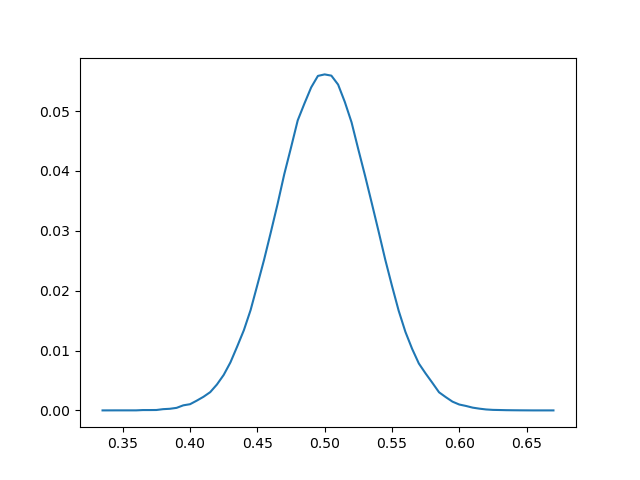
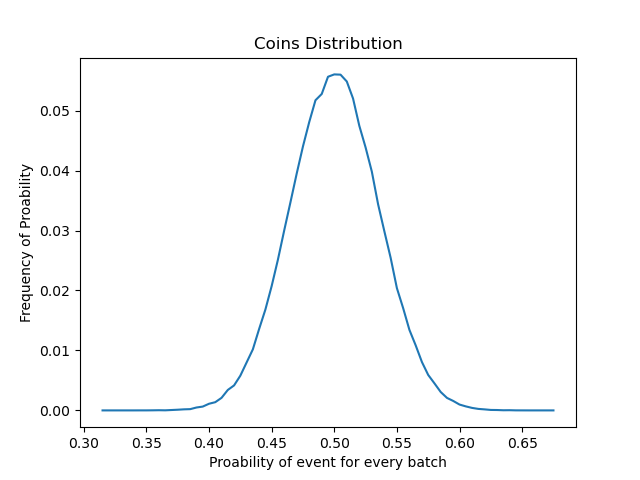
new

diff --git a/coinDistrbution.py b/coinDistrbution.py
@@ -4,19 +4,19 @@
 import numpy as np 
 import matplotlib.pyplot as plt
 
-def randomSeries(N):
-    """generate series number between 0~1"""
+def randomSeries(N): #generate series number between 0~1
     return np.random.rand(N)
 
 def plotNormalDistribution():
-    plt.figure(num='Normal Distribution')
     x = np.linspace(-1,1,50)
     y = 1/np.sqrt(2*np.pi) * np.exp(-0.5*x**2)
-    plt.plot(x,y)
+    plotDistribution(x,y,'Normal Distribution')
     
 def plotDistribution(x,y,name):
-    plt.figure(num=name)
+    plt.title(name)
     plt.plot(x,y)
+    plt.xlabel('Proability of event for every batch')
+    plt.ylabel('Frequency of Proability')
     plt.show()
 
 def calculateDistribution(distributions,name):
@@ -30,7 +30,7 @@ def calculateDistribution(distributions,name):
         distributions_setCount.append(distributions.count(i))
     #print(distributions_setCount)
 
-    distributions_setProb = []  #calculate prob frequency
+    distributions_setProb = []  #calculate frequency prob
     sum = np.sum(distributions_setCount)
     for i in distributions_setCount:
         distributions_setProb.append(i/sum)
@@ -38,17 +38,16 @@ def calculateDistribution(distributions,name):
 
     maxFrequency = np.max(distributions_setProb)
     index = distributions_setProb.index(maxFrequency)
-    print('index=',index,'prob=',distributions_set[index],'max frequency:',maxFrequency)
+    print('index=',index,'prob=',distributions_set[index].round(4),'max frequency:',maxFrequency.round(4))
 
     plotDistribution(distributions_set,distributions_setProb,name)
 
 
 def main():
     #plotNormalDistribution()
-
     #experment start
     T = 300000  #times of batch
-    N = 200    #coin test times erery batch
+    N = 200     #coin test times every batch
     
     distributions = []
     for _ in range(T):

diff --git a/diceDistrbution.py b/diceDistrbution.py
@@ -3,23 +3,13 @@
 import numpy as np 
 from coinDistrbution import calculateDistribution
 
-def randomSeriesInt(N):
-    """generate series dice number """
+def randomSeriesInt(N): #generate N times dice number 1~6
     return np.random.randint(1,7,N)
 
 def main():
     #experment start
-
-    #test 1
-    """
-    N = 20000   #coin test times erery batch
-    distributions = list(randomSeriesInt(N))
-    return calculateDistribution(distributions)
-    """
-
-    #test2
     T = 50000  #times of batch
-    N = 100    #coin test times erery batch
+    N = 100    #dice test times every batch
     
     distributions = []
     for _ in range(T):
@@ -27,7 +17,6 @@ def main():
         res = np.where(x == 1, 1, 0) #stand for number 1 of dice throwing
         prob = np.sum(res)*1.0/len(res)
         distributions.append(prob)
-        #print(x)
 
     #print(distributions)
     return calculateDistribution(distributions,'Dice Distribution')

diff --git a/plotFunction.py b/plotFunction.py
@@ -8,10 +8,10 @@ from activationFunc import *
 import math
 from scipy.special import gamma,factorial,beta
 
-def derivative(f,x,h=0.0001): #one parameter fuction derivate
+def derivative(f,x,h=0.0001): #one parameter fuction derivative
     return (f(x+h)-f(x))/h
 
-def derivative2(f,x,h=0.001): #Second Derivative
+def derivative2(f,x,h=0.0001): #Second Derivative
     return (derivative(f,x+h,h) - derivative(f,x,h))/h
 
 def normalDistribution(x):
@@ -258,10 +258,10 @@ def plotSoftmax2():
     
 def plotActivationFucBRelu():
     ax = plt.subplot(1,1,1)
-    x = np.linspace(-0.5,0.5, 20)
+    x = np.linspace(-0.1,0.1, 40)
     ax.set_title('Activation BRelu')
     plotSub(x, BReLu(x), ax,label='BReLu-even')
-    y = np.linspace(-0.5,0.5, 21)   
+    y = np.linspace(-0.1,0.1, 41)
     plotSub(y, BReLu(y), ax,label='BReLu-odd')
     plt.show()
     

diff --git a/README.md b/README.md
@@ -21,12 +21,12 @@ when N= 1000000 s =  0.7853986631034552 pi =  3.1415946524138207 <br/>
 <img src="images/Coins_Distribution.png" width="320" height="240">
 
 Result:
-prob= 0.5 max frequency: 0.05622666666666667
+index= 12 prob= 0.16 max frequency: 0.1071
 
 3)diceDistrbution.py
 <br/>
 <img src="images/Dice_Distribution.png" width="320" height="240"><br/>
-Result: prob= 0.17 max frequency: 0.10772
+index= 12 prob= 0.16 max frequency: 0.1071
 
 4)fucIntegral.py
 <br/>
